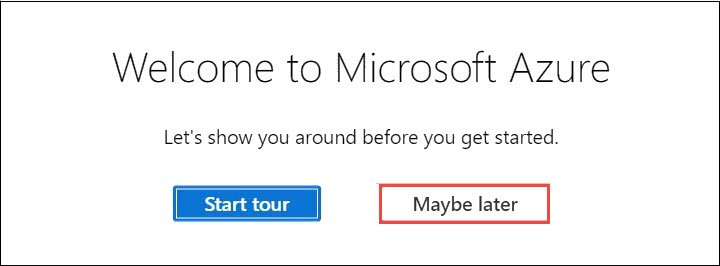
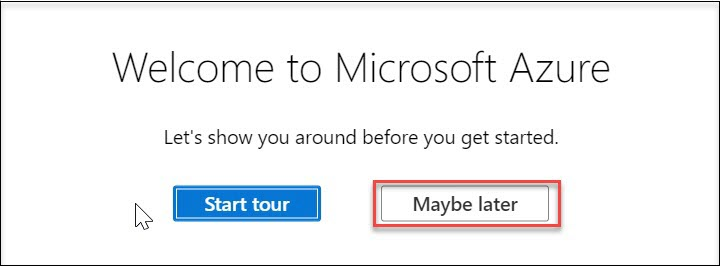
gs

Changed region(s): [[0.4889, 0.6617, 0.7944, 0.9023], [0.1833, 0.782, 0.2139, 0.8722], [0.5806, 0.7519, 0.6111, 0.782]]

diff --git a/Labfiles/Getting-started.md b/Labfiles/Getting-started.md
@@ -1,12 +1,52 @@
 # Getting Started with Hybrid Identity with Entra ID
 
-Welcome to your Hybrid identity with Entra ID workshop! We've prepared a seamless environment for you to embark on a comprehensive journey into Hybrid Identity with Entra ID. Discover how to fortify your organization's security posture by delving into topics such as passwordless access using authentication apps, access reviews, external collaboration setup, multi-factor authentication (MFA), conditional access configuration, monitoring, auditing, privileged identity management (PIM) implementation, self-service password reset (SSPR), and the seamless integration of on-premises Active Directory with Entra ID's hybrid identity solutions. Through practical guidance and hands-on exercises, empower your team to leverage these advanced features effectively, ensuring robust security across both on-premises and cloud environments.
+#### Overall Estimated Duration: 4 Hours
+
+## Overview
+
+In this lab, you will explore the complete Hybrid Identity experience with Entra ID. You will work through hands-on labs designed to strengthen your organization's security posture by configuring passwordless authentication, access reviews, external collaboration, conditional access policies, monitoring, auditing, and Privileged Identity Management (PIM). You will also learn how to enable self-service password reset (SSPR) and seamlessly integrate on-premises Active Directory with Entra ID to implement a robust hybrid identity solution. 
+
+Through guided steps and practical scenarios, this lab will equip you with the skills needed to secure and manage identities across both on-premises and cloud environments.
+
+## Objectives
+
+By completing this lab series, you will have comprehensive knowledge of designing, deploying, and managing a **Hybrid Identity** solution with **Microsoft Entra ID** for enterprise-scale adoption:
+
+- Configure **Active Directory Domain Services** and synchronize on-premises AD identities with **Microsoft Entra ID** using **Entra Connect**.
+- Enable **self-service password reset** with **password writeback** and validate synchronization across on-premises and cloud environments.
+- Assign **Azure resource roles** with **Privileged Identity Management** using **time-bound, eligible assignments** with approval workflows.
+- Create a **Log Analytics Workspace** and configure **diagnostic settings** to collect and analyze **Entra ID audit and sign-in logs**.
+- Create **security groups**, configure **recurring access reviews**, and set up **external collaboration** with **guest user access controls**.
+
+## Architecture
+
+- **Hybrid Identity Framework** integrates on-premises Active Directory with Microsoft Entra ID to enable enterprise-scale identity management and governance. **Active Directory Domain Services (AD DS)** serves as the on-premises identity foundation, managing users, groups, and resources within the corporate network. **Microsoft Entra Connect** facilitates seamless directory synchronization between on-premises AD and Microsoft Entra ID, enabling unified identity management across cloud and on-premises environments.
+
+- **Microsoft Entra ID** provides centralized cloud-based identity and access management, enforcing **security baselines, conditional access policies** to protect resources. **Privileged Identity Management (PIM)** manages and monitors privileged access through time-bound, approval-based role assignments, ensuring security and governance controls. **Log Analytics Workspace** and **Azure Monitor** collect and analyze audit logs, sign-in logs, and security events for compliance, threat detection, and operational insights.
+
+- **Access Reviews** and **Role-Based Access Control (RBAC)** establish governance controls, enabling regular access validation and least-privilege permissions. **External Collaboration Settings** and **Guest User Management** facilitate secure partner and vendor access with configurable invitation and access restrictions. **Self-Service Password Reset (SSPR)** with password writeback ensures users can manage credentials securely while maintaining synchronization between cloud and on-premises environments.
+
+## Architecture Diagram
+
+![](../media/hybrid-identity-arch-diag-1303.png)
+
+## Explanation of Components
+
+- **Microsoft Entra ID:** Microsoft Entra ID is a cloud-based identity and access management service that provides single sign-on (SSO), multi-factor authentication (MFA), and conditional access capabilities. It serves as the central identity provider for cloud and hybrid environments, enabling organizations to authenticate users, manage application access, and enforce security policies across the organization.
+
+- **Active Directory Domain Services (AD DS):** Active Directory Domain Services is the on-premises identity management system that manages users, computers, and resources within a corporate network. It provides authentication, authorization, and directory services, forming the foundation of on-premises identity infrastructure and requiring synchronization with cloud services through tools like Microsoft Entra Connect.
+
+- **Microsoft Entra Connect:** Microsoft Entra Connect is a synchronization tool that bridges on-premises Active Directory with Microsoft Entra ID, enabling bidirectional identity synchronization. It ensures that user accounts, groups, and contacts are consistently maintained across both environments, while supporting password writeback for on-premises password changes initiated from the cloud.
+
+- **Azure Monitor:** Azure Monitor is a comprehensive monitoring service that collects, analyzes, and visualizes telemetry data from Azure resources, applications, and on-premises systems. It enables proactive performance tracking, anomaly detection, and issue identification through metrics, logs, and traces, providing insights into system health, availability, and performance trends.
+
+- **Azure Log Analytics:** Azure Log Analytics is a powerful tool within Azure Monitor that collects and queries logs from various Azure services, on-premises resources, and third-party sources. It provides deep insights into application health, performance, security events, and user behavior through Kusto Query Language (KQL), enabling investigation, alerting, and compliance reporting for security and operational purposes.
 
 ## Accessing Your Lab Environment
 
-Once you're ready to dive in, your virtual machine and lab guide will be right at your fingertips within your web browser.
+Once you are ready to dive in, your virtual machine and lab guide will be right at your fingertips within your web browser.
 
-![](../media/introp.png)
+![](../media/intropupd.png)
 
 ### Virtual Machine & Lab Guide
  
@@ -14,43 +54,44 @@ Your virtual machine is your workhorse throughout the workshop. The lab guide is
 
 ## Exploring Your Lab Resources
  
-To get a better understanding of your lab resources and credentials, navigate to the **Environment Details** tab.
+To get a better understanding of your lab resources and credentials, navigate to the **Environment** tab.
 
-![](../media/introp1.png)
+![](../media/env-0903.png)
 
 ## Utilizing the Split Window Feature
  
 For convenience, you can open the lab guide in a separate window by selecting the **Split Window** button from the Top right corner.
 
-![](../media/introp2.png)
+![](../media/introp2upd.png)
  
 ## Managing Your Virtual Machine
  
-Feel free to start, stop, or restart your virtual machine as needed from the **Resources** tab. Your experience is in your hands!
+Feel free to **Start, Stop, or Restart (2)** your virtual machine as needed from the **Resources (1)** tab. Your experience is in your hands!
 
-![](../media/resources.png)
+![](../media/res-0903.png)
+
+## Lab Guide Zoom In/Zoom Out
+ 
+To adjust the zoom level for the environment page, click the **A↕ : 100%** icon located next to the timer in the lab environment.
+
+![](../media/zoomin.png)
 
 ## Let's Get Started with Azure Portal
 
-1. On your virtual machine, click on the Azure Portal icon and sign in to the **Azure Portal** (<http://portal.azure.com>).
+1. On your Lab virtual machine, click on the **Azure Portal** icon to sign in to the Azure.
 
-1. On the **Sign in to Microsoft Azure** blade, you will see a login screen, in which enter the following email/username and then click on **Next**.  
+    ![](../media/signin0-0903.png) 
+
+1. On the **Sign in** blade, you will see a login screen, in which enter the following email/username and password and then click on **Sign in**.  
 
    * **Azure Username/Email**:  <inject key="AzureAdUserEmail"></inject> 
 
-   ![](../media/g1.jpg)
+        ![](../media/signin1-0903.png) 
 
-   * **Azure Password**:  <inject key="AzureAdUserPassword"></inject>
-
-    ![](../media/g2.jpg)
-
-     >**Note**: Refer to the **Environment Details** tab for any other lab credentials/details.
-
+   * **Temperory Access Pass**:  <inject key="AzureAdUserPassword"></inject>
   
-1. If **Action required** pop-up window appears, click on **Ask later**.
-
-    ![](../media/ask-later-01.png)
-
+        ![](../media/signin2-0903.png)
+  
 1. If you see the pop-up **Stay Signed in?** click **Yes**.
 
     ![](../media/g3.jpg)
@@ -59,7 +100,19 @@ Feel free to start, stop, or restart your virtual machine as needed from the **R
 
 1. If a **Welcome to Microsoft Azure** popup window appears, click **Maybe Later** to skip the tour.
 
-    ![](../media/getting-started-latest.png)
+    ![](../media/g4.jpg)
 
-Now you're all set to explore the powerful world of technology. Feel free to reach out if you have any questions along the way. Enjoy your workshop!
+## Support Contact
 
+The CloudLabs support team is available 24/7, 365 days a year, via email and live chat to ensure seamless assistance at any time. We offer dedicated support channels tailored specifically for both learners and instructors, ensuring that all your needs are promptly and efficiently addressed.
+
+Learner Support Contacts:
+
+- Email Support: [email redacted]
+- Live Chat Support: https://cloudlabs.ai/labs-support
+
+Click **Next** from the bottom right corner to embark on your Lab journey!
+
+![](../media/up4.png)
+
+### Happy Learning!!